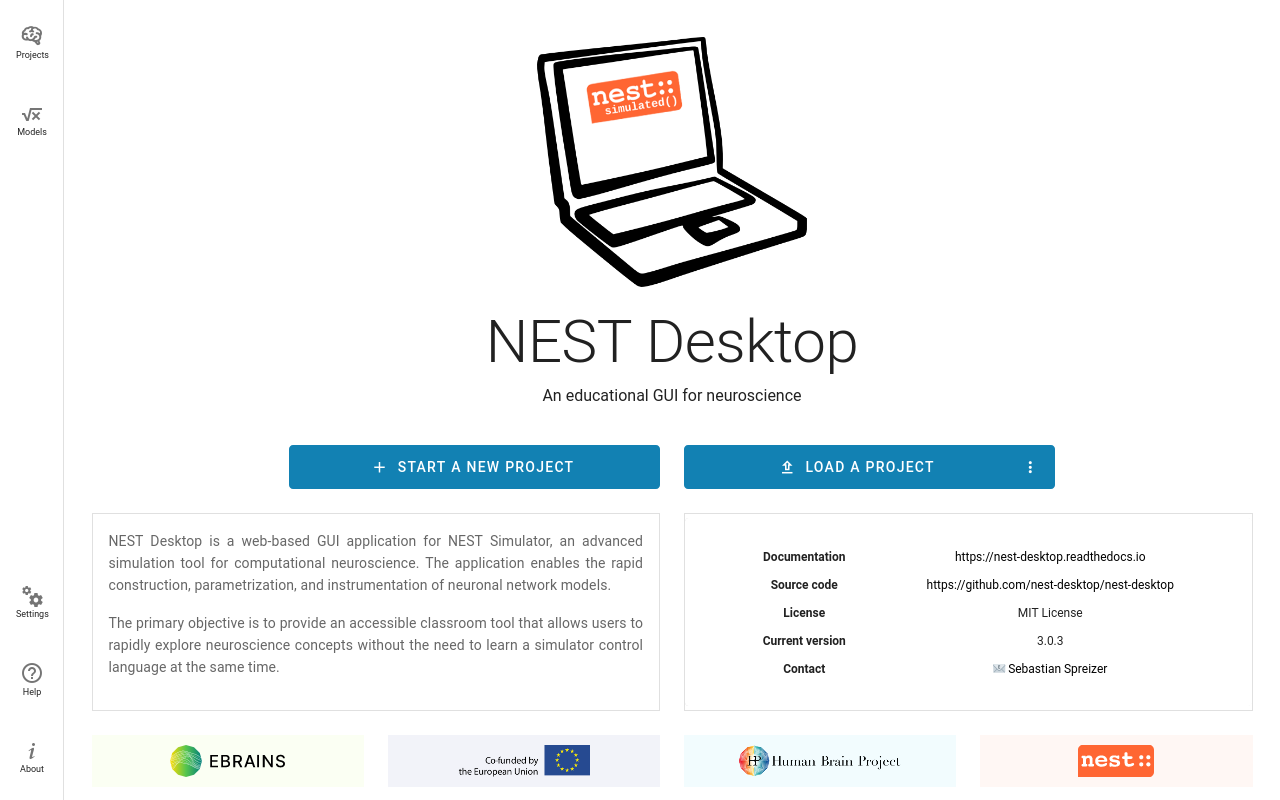
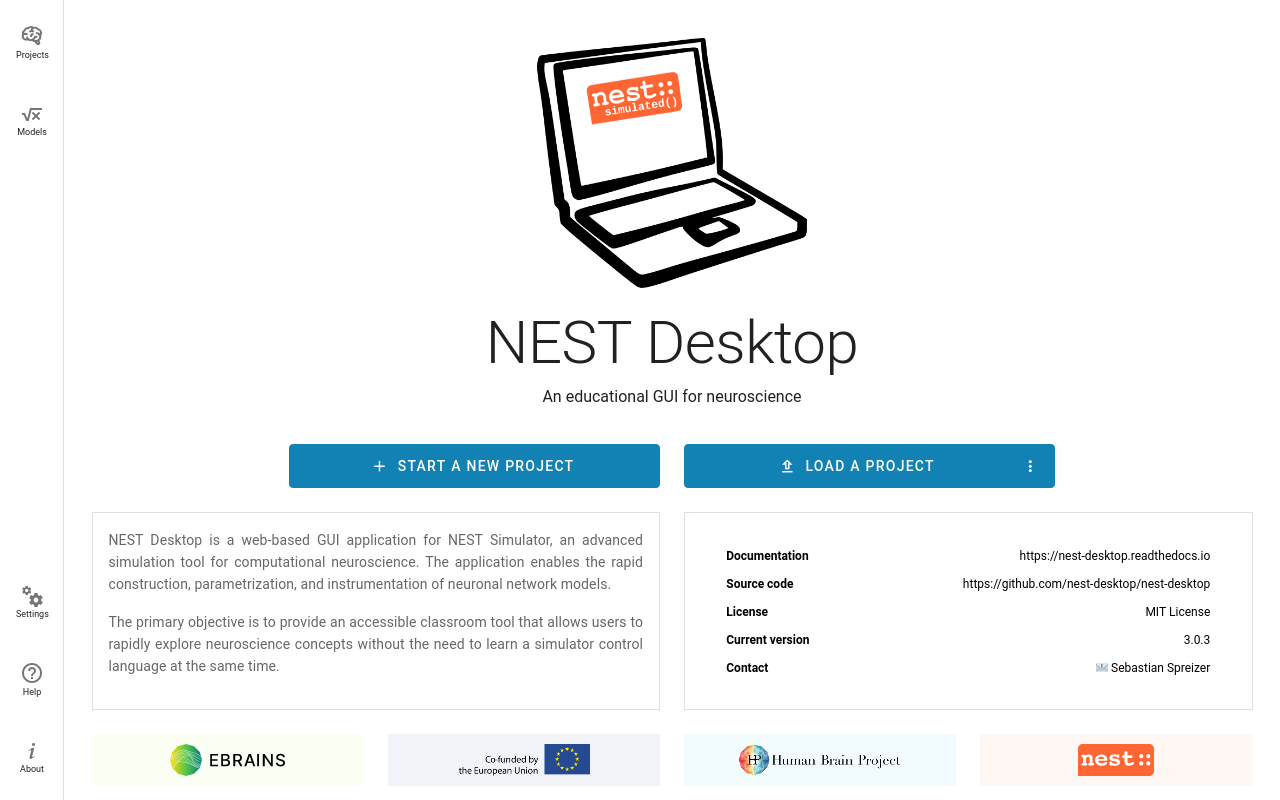
Fix text-alignment in about

diff --git a/src/components/About.vue b/src/components/About.vue
@@ -1,19 +1,16 @@
 <template>
-  <div class="about" align="center">
+  <div class="about">
     <v-list dense max-width="500px">
       <v-list-item>
-        <v-row align-content="start">
+        <v-row>
           <v-col
-            align="start"
-            class="font-weight-bold"
+            class="font-weight-bold text-left"
             cols="4"
             v-text="'Documentation'"
           />
-          <v-col cols="8" align="end">
+          <v-col class="text-right" cols="8">
             <a
               :href="state.doc"
-              onmouseout="style='text-decoration:none'"
-              onmouseover="style='text-decoration:underline'"
               target="_blank"
               v-text="state.doc"
             />
@@ -23,16 +20,13 @@
       <v-list-item>
         <v-row>
           <v-col
-            align="start"
-            class="font-weight-bold"
+            class="font-weight-bold text-left"
             cols="4"
             v-text="'Source code'"
           />
-          <v-col cols="8" align="end">
+          <v-col class="text-right" cols="8">
             <a
               :href="state.repo"
-              onmouseout="style='text-decoration:none'"
-              onmouseover="style='text-decoration:underline'"
               target="_blank"
               v-text="state.repo"
             />
@@ -42,34 +36,31 @@
       <v-list-item>
         <v-row>
           <v-col
-            align="start"
-            class="font-weight-bold"
+            class="font-weight-bold text-left"
             cols="4"
             v-text="'License'"
           />
-          <v-col align="end" cols="8" v-text="state.license" />
+          <v-col class="text-right" cols="8" v-text="state.license" />
         </v-row>
       </v-list-item>
       <v-list-item>
         <v-row>
           <v-col
-            align="start"
-            class="font-weight-bold"
+            class="font-weight-bold text-left"
             cols="4"
             v-text="'Current version'"
           />
-          <v-col align="end" cols="8" v-text="state.version" />
+          <v-col class="text-right" cols="8" v-text="state.version" />
         </v-row>
       </v-list-item>
       <v-list-item>
         <v-row>
           <v-col
-            align="start"
-            class="font-weight-bold"
+            class="font-weight-bold text-left"
             cols="4"
             v-text="'Contact'"
           />
-          <v-col align="end" cols="8">
+          <v-col class="text-right" cols="8">
             <a
               :href="
                 state.contactMailHeader +
@@ -162,13 +153,17 @@ export default {
   font-size: 12px;
 }
 .about .v-list-item {
-  height: 28px !important;
+  color: black !important;
   min-height: 28px !important;
 }
 .about a {
-  text-decoration: none;
   color: black !important;
+  text-decoration: none;
 }
+.about a:hover {
+  text-decoration: underline;
+}
+
 .about .col-4,
 .about .col-8 {
   padding: 4px;

diff --git a/src/views/Home.vue b/src/views/Home.vue
@@ -2,6 +2,8 @@
   <div class="home">
     <v-main style="height: 100vh; overflow-y: auto">
       <v-container fill-height>
+        <v-spacer />
+
         <v-row>
           <v-col align="center">
             <v-img
@@ -17,9 +19,7 @@
               v-text="'An educational GUI for neuroscience'"
             />
           </v-col>
-        </v-row>
 
-        <v-row>
           <v-col :cols="12" :md="12" :xl="8" :offset-xl="2">
             <v-row>
               <v-col :lg="4" :xs="6" :offset-lg="2">
@@ -104,16 +104,16 @@
                 :cols="12"
                 :key="reference.title"
                 :lg="3"
-                :md="6"
+                :sm="6"
                 v-for="reference in references"
               >
-                <v-tooltip :open-delay="200" bottom>
+                <v-tooltip :open-delay="200" top>
                   <template v-slot:activator="{ on, attrs }">
                     <v-btn
                       :color="reference.color"
                       :href="reference.url"
-                      class="logo"
                       block
+                      class="logo"
                       depressed
                       ripple
                       target="_blank"
@@ -209,33 +209,14 @@ export default Vue.extend({
 </script>
 
 <style>
-.app-details .v-list {
-  font-size: 12px;
-}
-
-.app-details .v-list-item {
-  min-height: 28px !important;
-}
-.app-details a {
-  text-decoration: none;
-  color: black;
-}
-.app-details .col-4,
-.app-details .col-8 {
-  padding: 4px;
-}
-
-.logo {
+.home .logo {
   overflow: hidden;
 }
-
-.logo .v-image {
+.home .logo .v-image {
   transition: all 0.5s ease-in-out;
   transform: scale(1);
 }
-
-.logo:hover .v-image {
-  transition: all 0.5s ease-in-out;
+.home .logo:hover .v-image {
   transform: scale(1.5);
 }
 </style>
